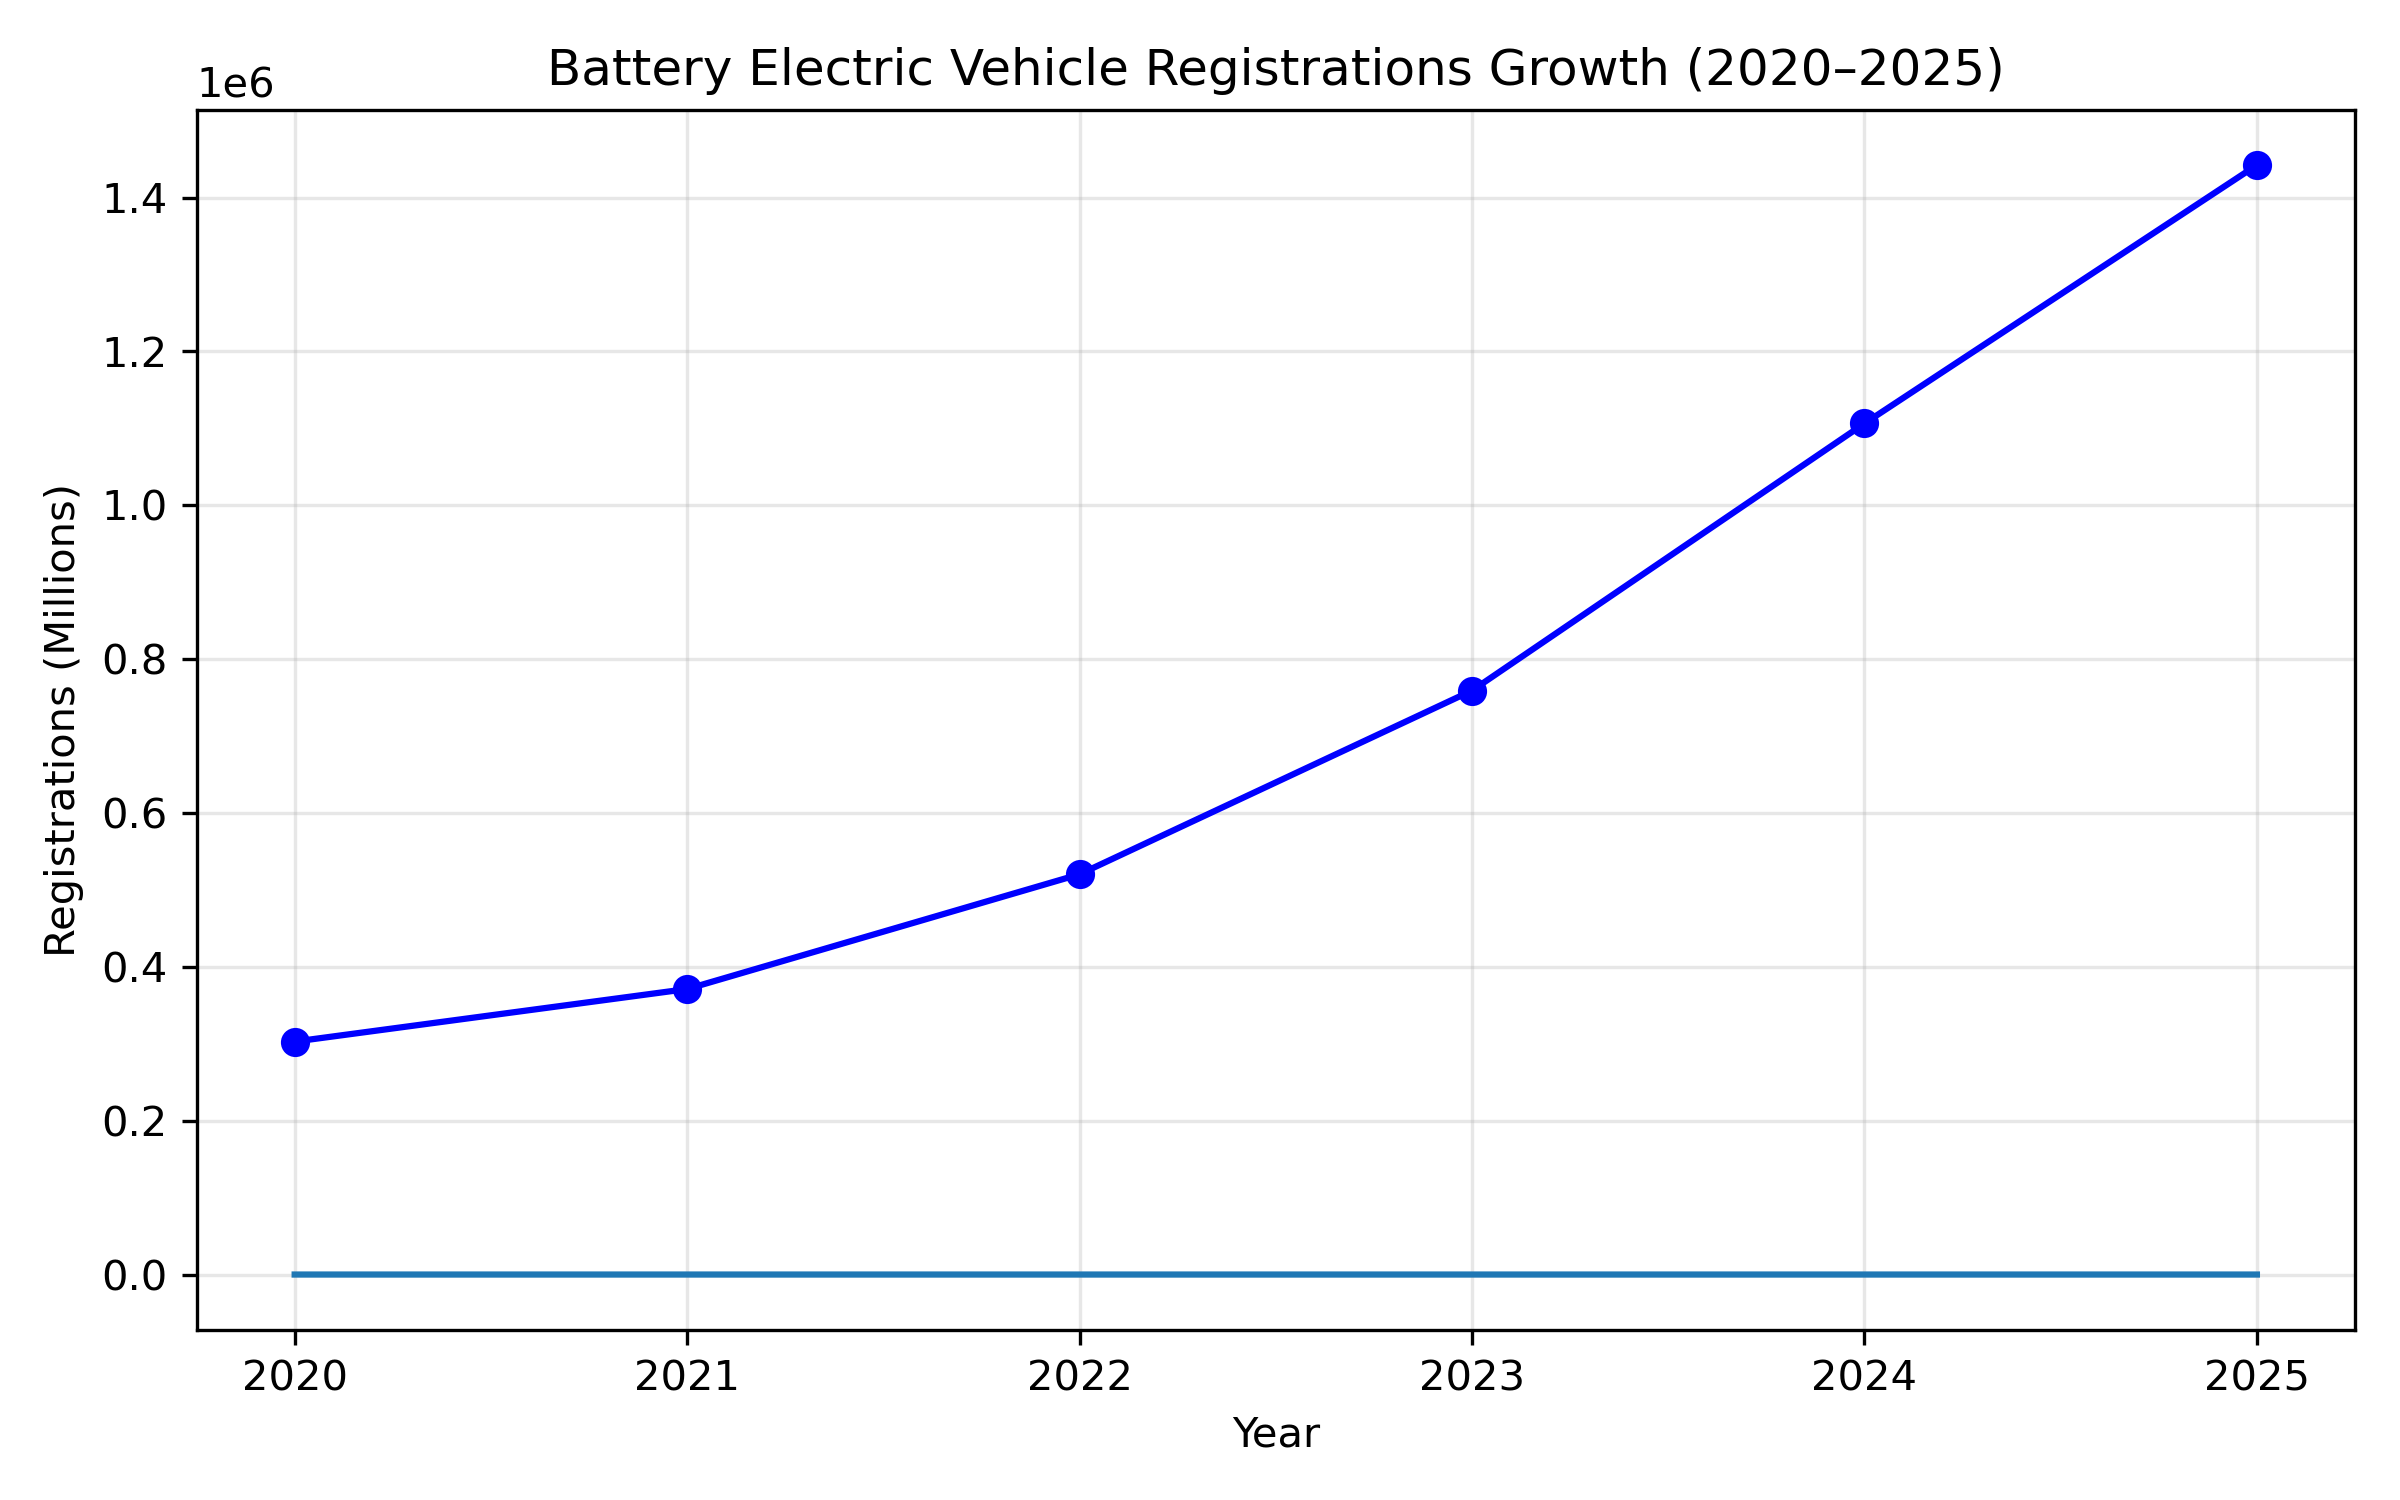
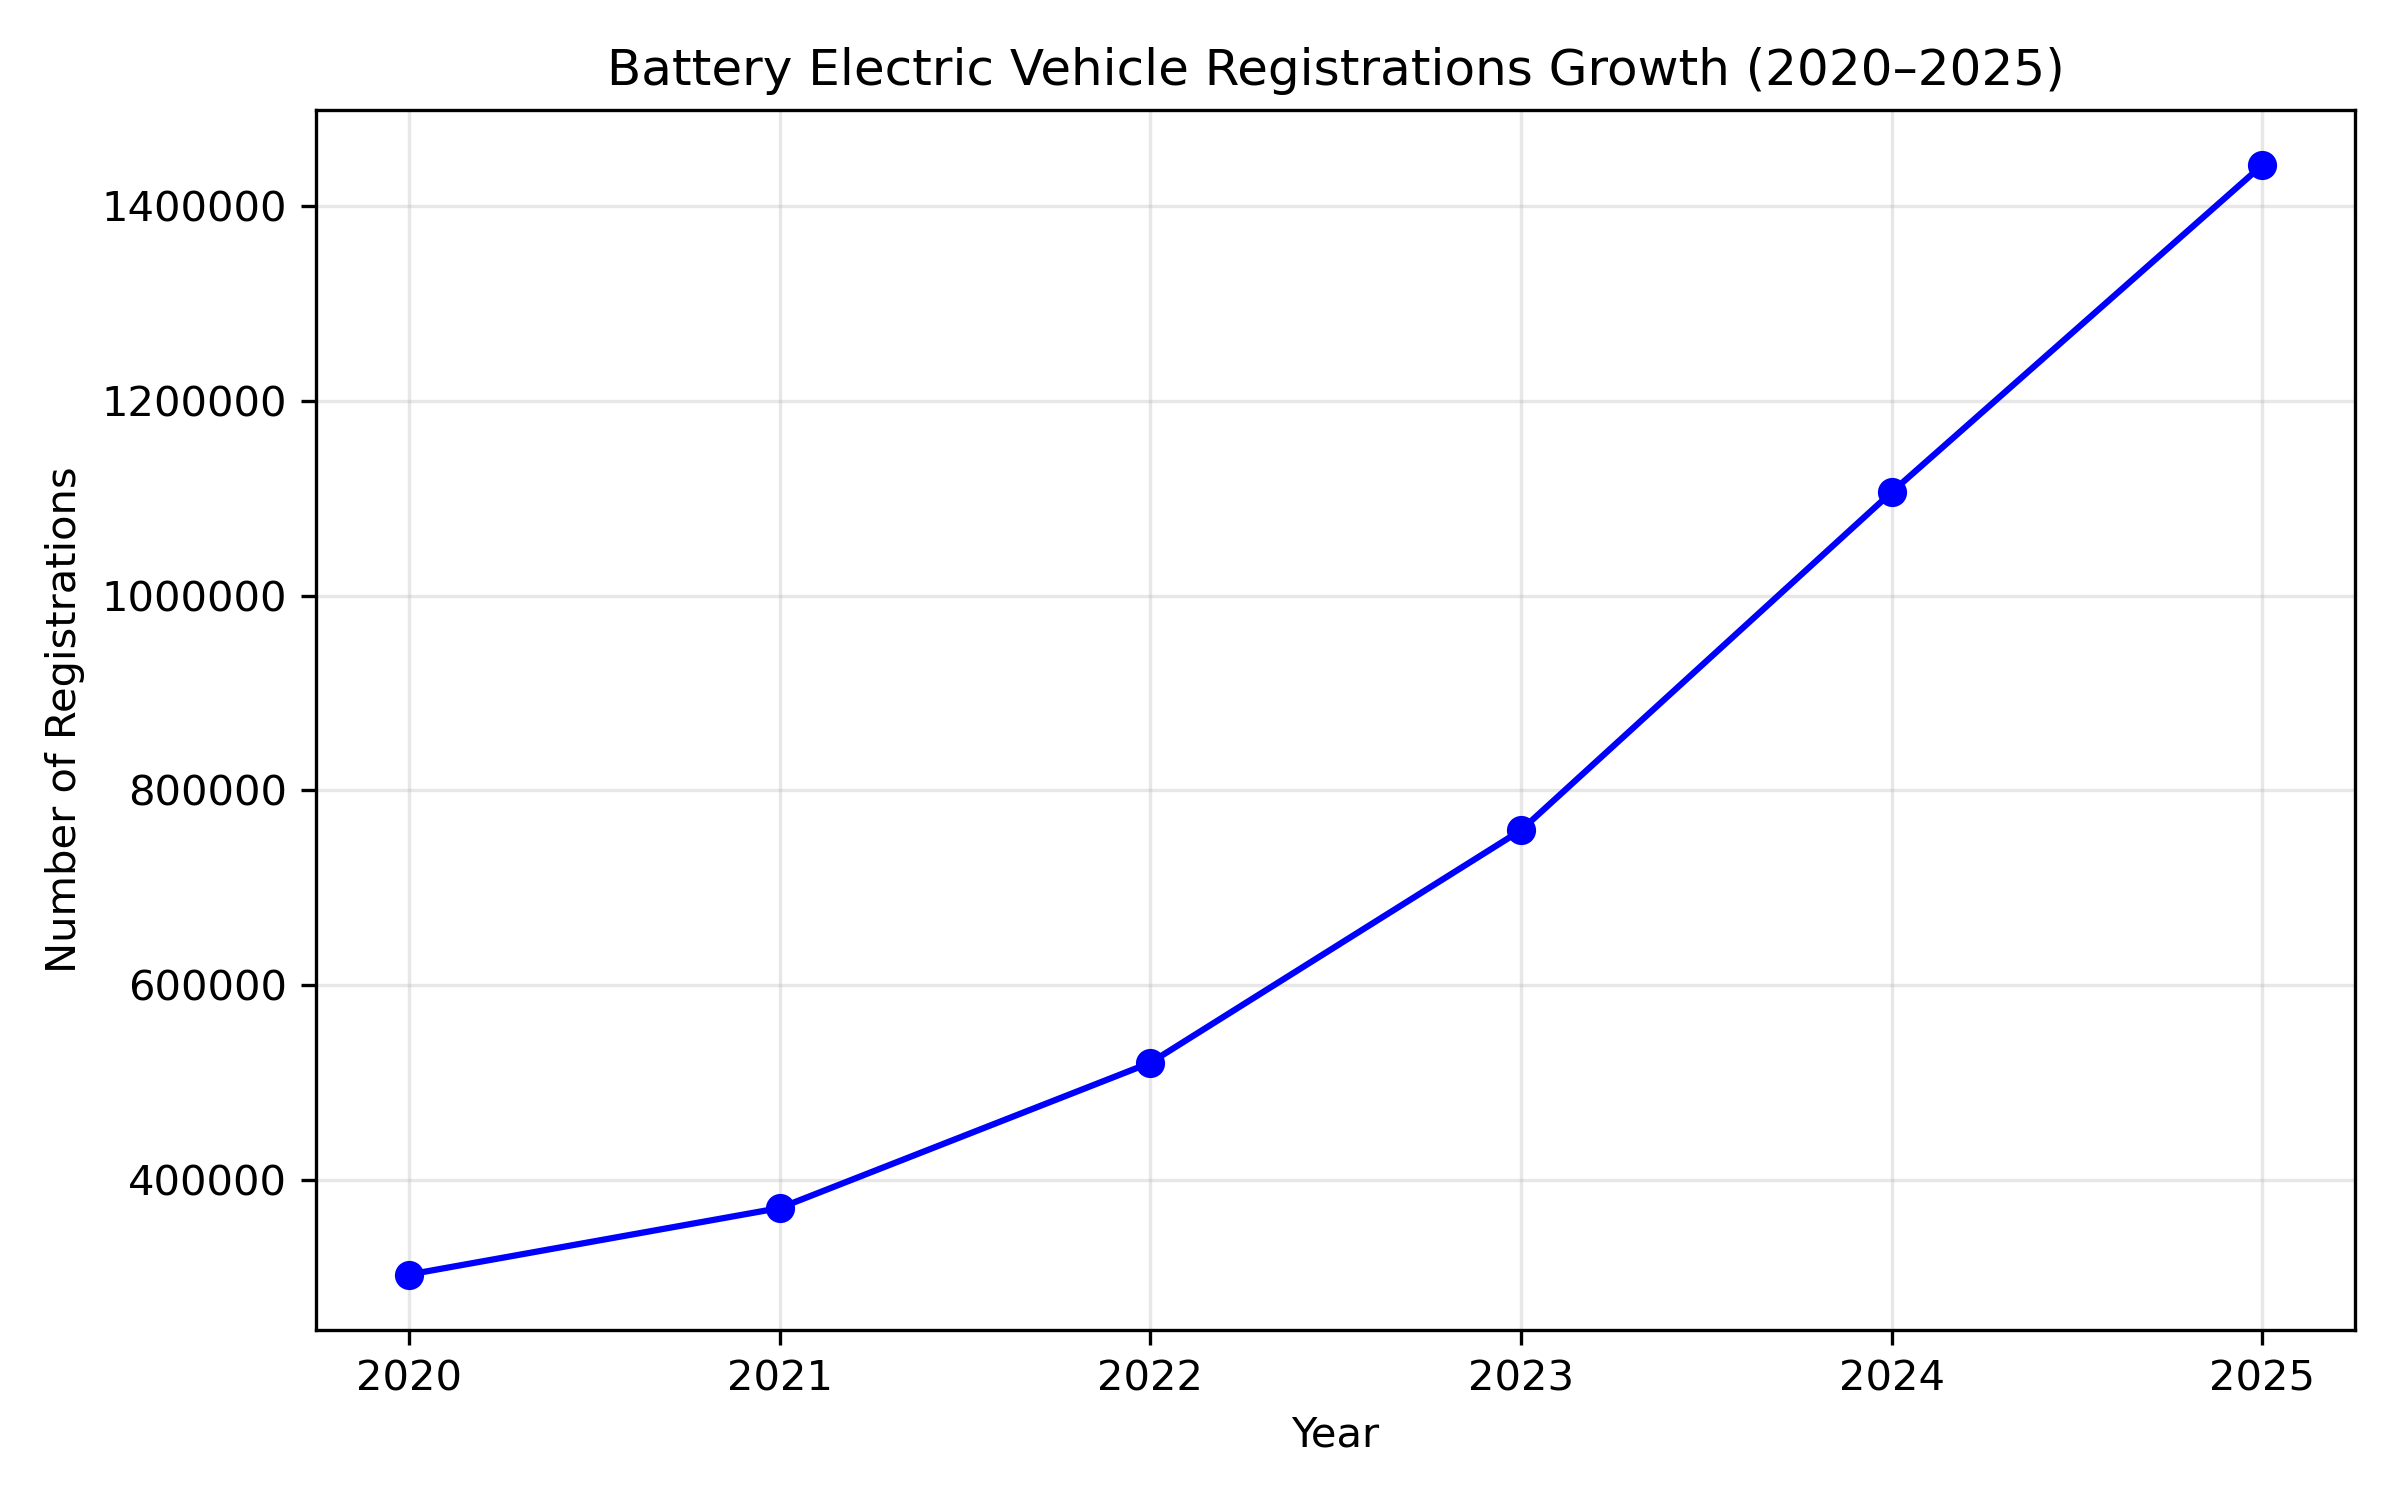
a

diff --git a/registration_analysis.py b/registration_analysis.py
@@ -74,12 +74,12 @@ plt.title("Battery Electric Vehicle Registrations Growth (2020–2025)")
 # Labels x-axis
 plt.xlabel("Year")
 # Label y-axis
-plt.plot(growth.index, growth["Battery Electric"] / 1_000_000)
-plt.ylabel("Registrations (Millions)")
-
+plt.ylabel("Number of Registrations")
 # Adds grid lines
 plt.grid(True, alpha=0.3)
  
+
+plt.ticklabel_format(style='plain', axis='y')
 
 # Prevents overlapping elements
 plt.tight_layout()
